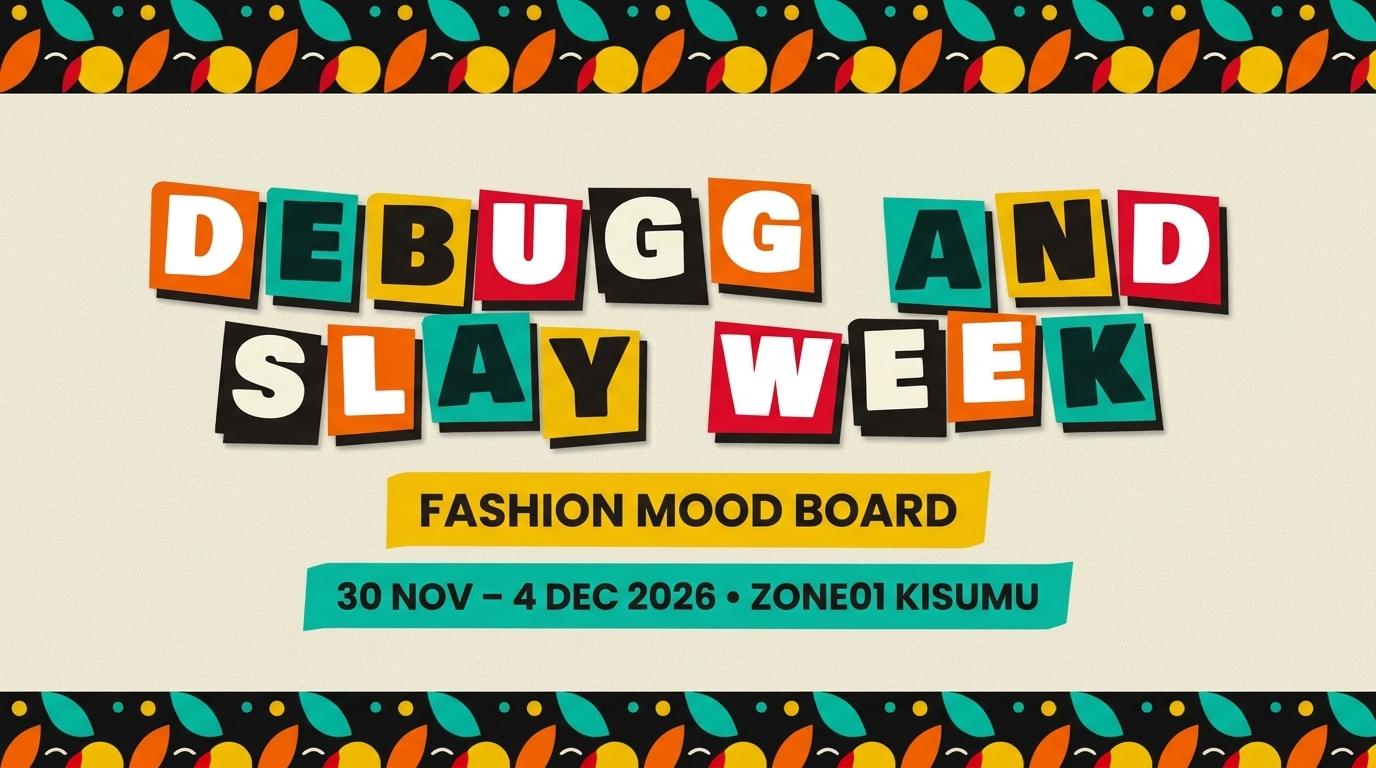
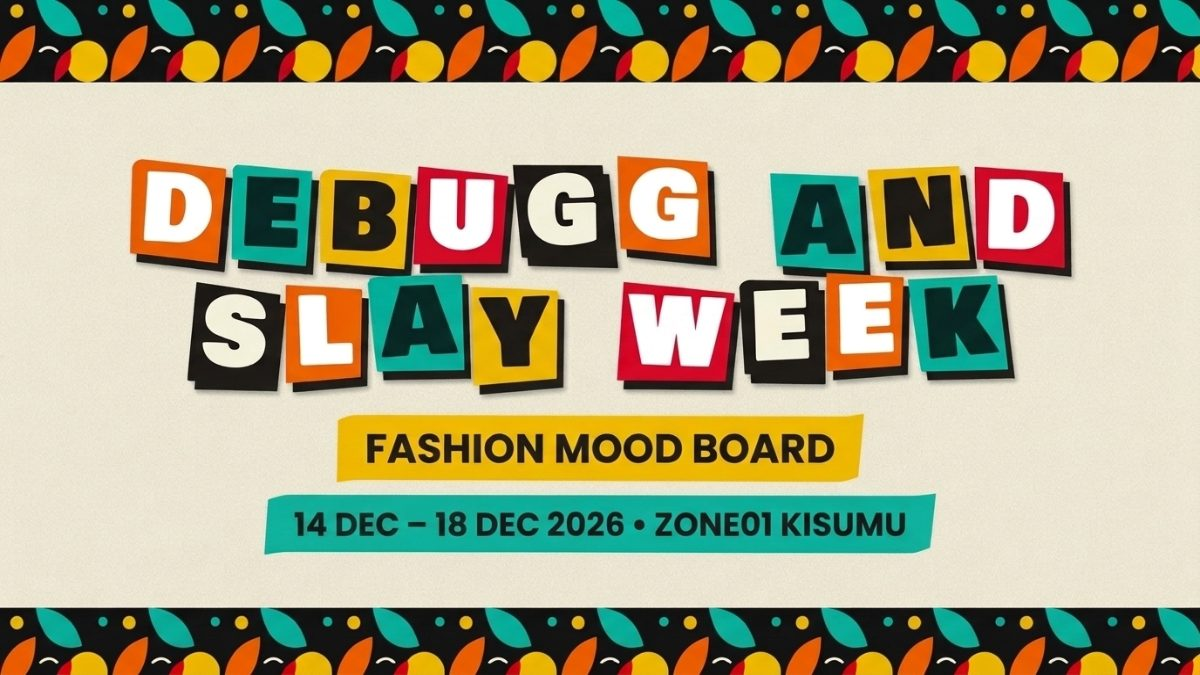
Update event dates and descriptions for Debugg and Slay Week; add new screenshots

diff --git a/index.html b/index.html
@@ -8,7 +8,7 @@
     <title>Debugg and Slay Week — Fashion Mood Board</title>
     <meta
       name="description"
-      content="Debugg and Slay Week fashion mood board at Zone01 Kisumu (30th Nov – 4th Dec 2026). Less bugs, more drip — style away!"
+      content="Debugg and Slay Week fashion mood board at Zone01 Kisumu (14th – 18th Dec 2026). Less bugs, more drip — style away!"
     />
     <meta property="og:type" content="website" />
     <meta property="og:site_name" content="Debugg and Slay Week" />
@@ -16,7 +16,7 @@
     <meta property="og:title" content="Debugg and Slay Week — Fashion Mood Board" />
     <meta
       property="og:description"
-      content="30th November – 4th December 2026 at Zone01 Kisumu. Less bugs, more drip — style away!"
+      content="14th – 18th December 2026 at Zone01 Kisumu. Less bugs, more drip — style away!"
     />
     <meta property="og:image" content="https://debuggandslay.netlify.app/og-image.jpg" />
     <meta property="og:image:width" content="1200" />
@@ -25,7 +25,7 @@
     <meta name="twitter:title" content="Debugg and Slay Week — Fashion Mood Board" />
     <meta
       name="twitter:description"
-      content="Debugg and Slay Week fashion mood board at Zone01 Kisumu (30th Nov – 4th Dec 2026)."
+      content="Debugg and Slay Week fashion mood board at Zone01 Kisumu (14th – 18th Dec 2026)."
     />
     <meta name="twitter:image" content="https://debuggandslay.netlify.app/og-image.jpg" />
     <link rel="preconnect" href="https://fonts.googleapis.com" />
@@ -53,7 +53,7 @@
             />
             <h1 class="chips" id="headline" aria-label="Debugg and Slay Week"></h1>
             <ul class="facts">
-              <li class="strip">30th November – 4th December 2026</li>
+              <li class="strip">14th – 18th December 2026</li>
               <li class="strip t">LakeHub, Zone01 Kisumu</li>
               <li class="strip o">Best-dressed awards</li>
             </ul>
@@ -80,7 +80,7 @@
 
     <footer class="site-footer">
       <h2 class="footer-title">See you at Zone01 Lakebasin Mall.</h2>
-      <p class="footer-date">30 Nov – 4 Dec 2026</p>
+      <p class="footer-date">14 – 18 Dec 2026</p>
       <p class="footer-signoff">Less bugs, more drip, dress to impress</p>
       <img class="footer-logo" src="/logo/logo.png" alt="Zone01 Kisumu logo" />
     </footer>

diff --git a/site/index.html b/site/index.html
@@ -6,12 +6,12 @@
     <title>Debugg and Slay Week</title>
     <meta
       name="description"
-      content="Zone01 Kisumu Debugg and Slay Week: 30th November – 4th December 2026 at LakeHub. A fashion mood board for the week."
+      content="Zone01 Kisumu Debugg and Slay Week: 14th – 18th December 2026 at LakeHub. A fashion mood board for the week."
     />
     <meta property="og:title" content="Debugg and Slay Week" />
     <meta
       property="og:description"
-      content="30th November – 4th December 2026, LakeHub, Zone01 Kisumu. Style away!"
+      content="14th – 18th December 2026, LakeHub, Zone01 Kisumu. Style away!"
     />
     <link rel="preconnect" href="https://fonts.googleapis.com" />
     <link rel="preconnect" href="https://fonts.gstatic.com" crossorigin />
@@ -38,7 +38,7 @@
             />
             <h1 class="chips" id="headline" aria-label="Debugg and Slay Week"></h1>
             <ul class="facts">
-              <li class="strip">30th November – 4th December 2026</li>
+              <li class="strip">14th – 18th December 2026</li>
               <li class="strip t">LakeHub, Zone01 Kisumu</li>
               <li class="strip o">Best-dressed awards</li>
             </ul>
